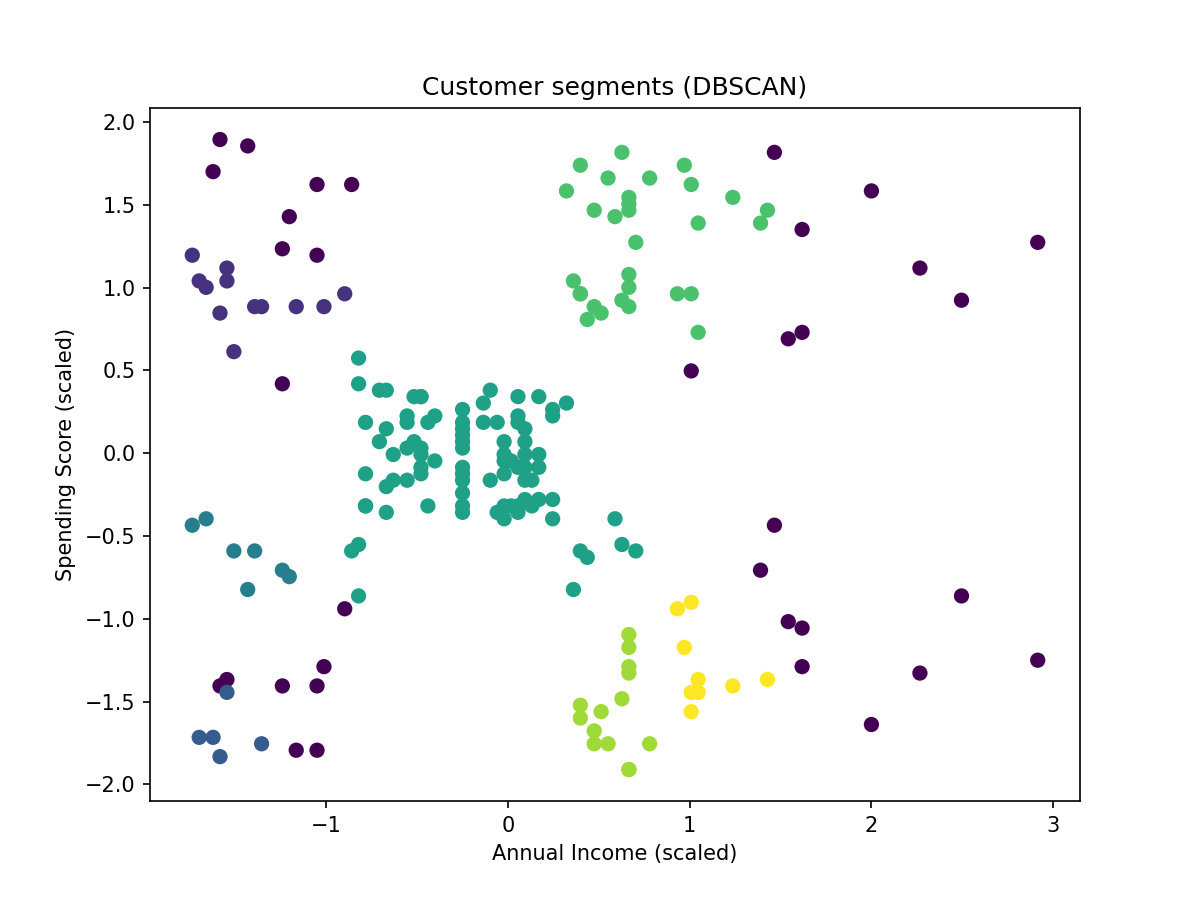
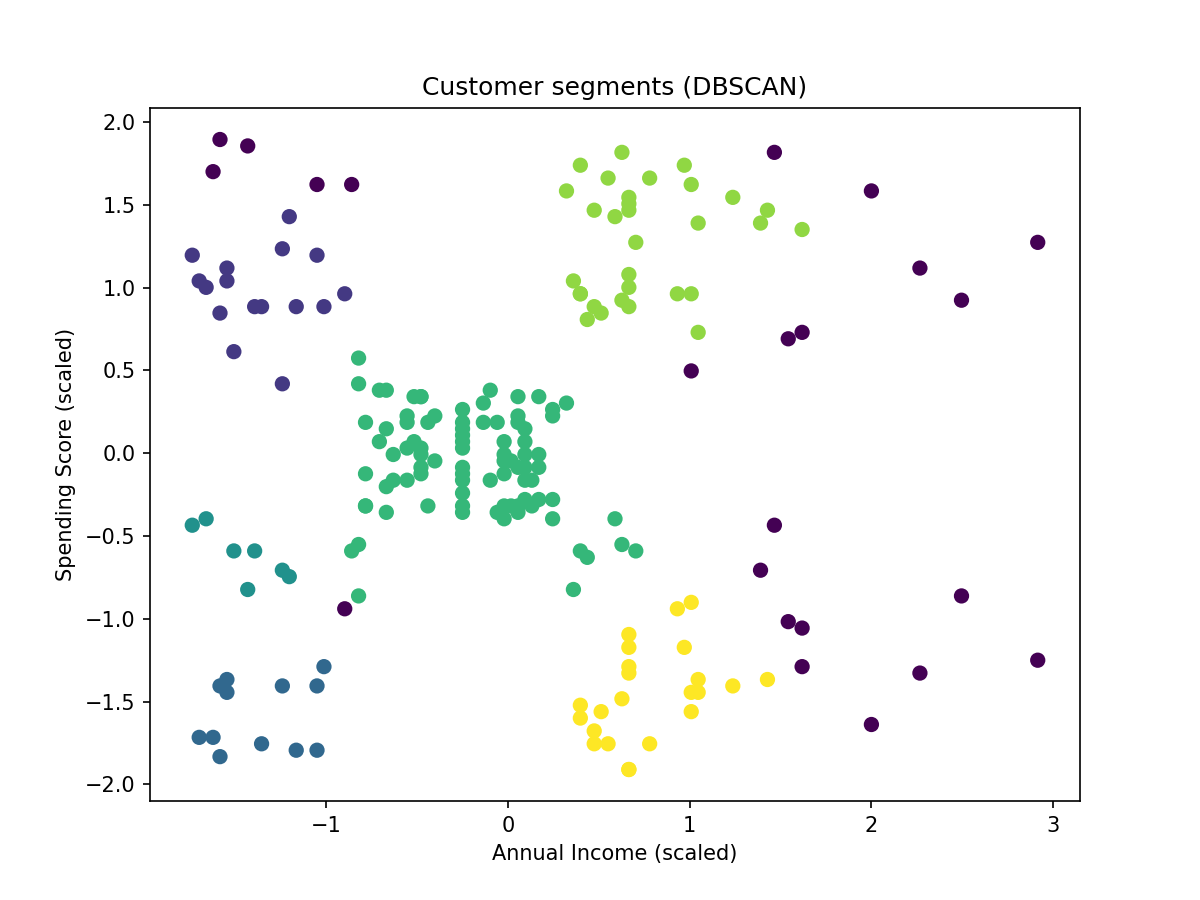
add DBSCAN clustering, compare against K-means and Hierarchical

diff --git a/clean-code/Mall_Customers_clustering.py b/clean-code/Mall_Customers_clustering.py
@@ -4,7 +4,7 @@ from sklearn.cluster import KMeans, DBSCAN
 import matplotlib.pyplot as plt
 from scipy.cluster.hierarchy import dendrogram, linkage
 from sklearn.cluster import AgglomerativeClustering
-
+import numpy as np
 
 def preprocess_for_clustering(df):
     """Select and scale Annual Income and Spending Score for clustering"""
@@ -140,7 +140,7 @@ def plot_dbscan_clusters(X_scaled, model):
 def main():
     df = load_data("data/Mall_Customers.csv")
     X_scaled = preprocess_for_clustering(df)
-    model = build_dbscan(X_scaled, 0.3, 5)
+    model = build_dbscan(X_scaled, 0.35, 5)
     #model = build_kmeans(features_scaled, n_clusters=5)
     #print(model.labels_) # which cluster (0-4) each customer/row was assigned to
     #print(model.cluster_centers_) # the (x, y) position of each cluster's centroid, in scaled space
@@ -150,6 +150,8 @@ def main():
     #plot_elbow(inertia_dict)
     #plot_hierarchical_clusters(X_scaled, model)
     plot_dbscan_clusters(X_scaled, model)
+    print(np.unique(model.labels_, return_counts=True))
+
 
 
 if __name__ == "__main__":
